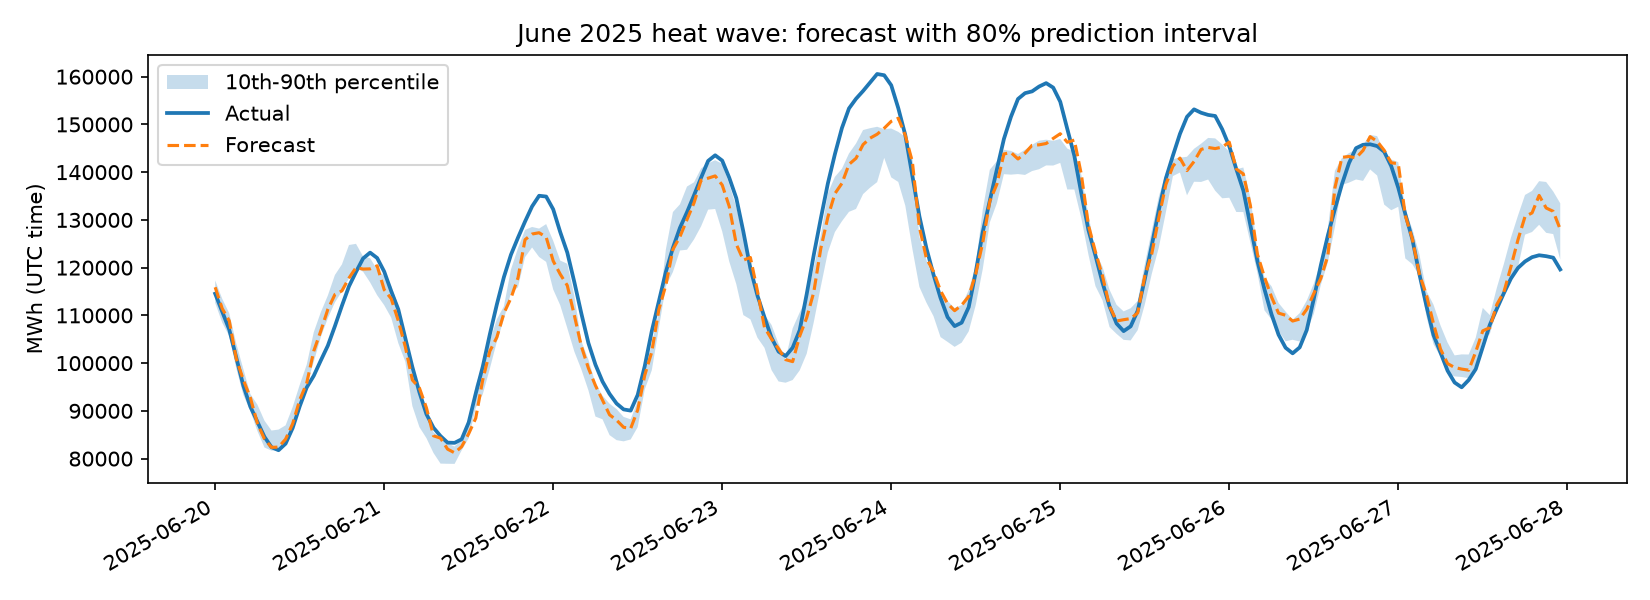
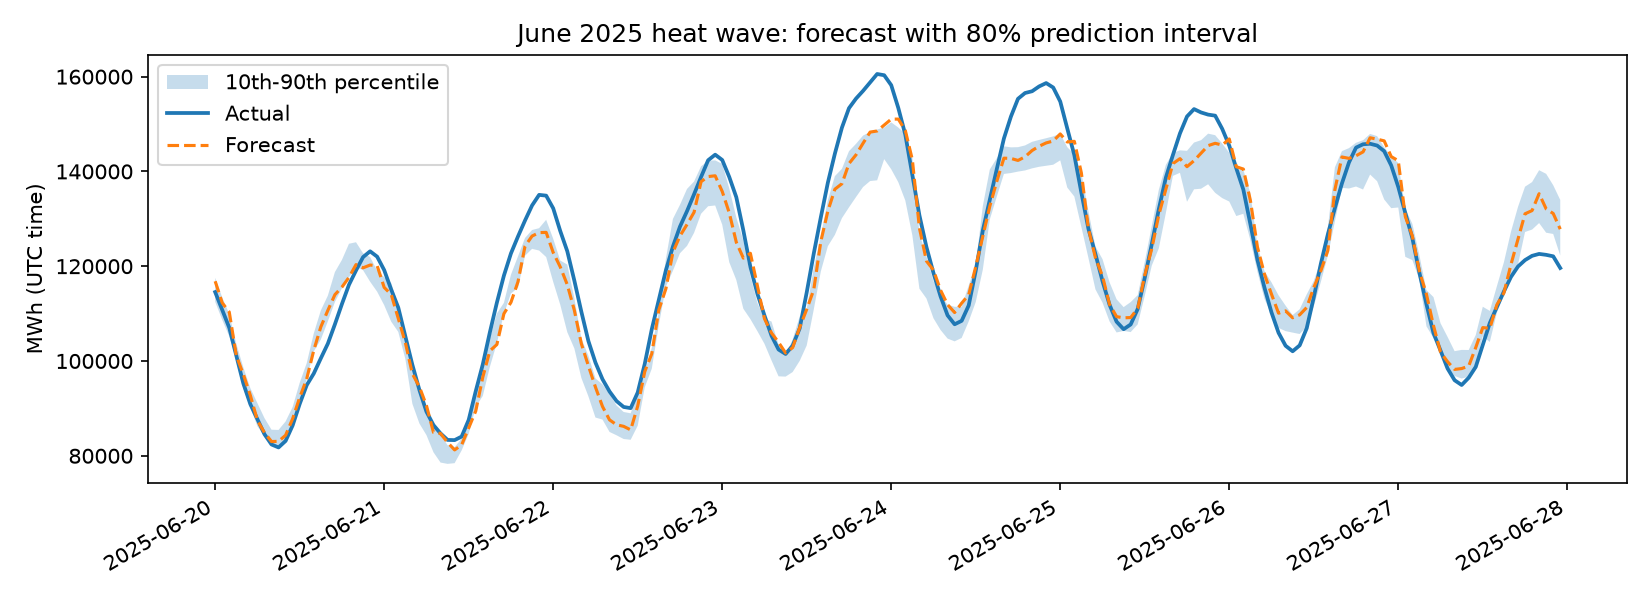
Add holiday features

diff --git a/src/calibrate.py b/src/calibrate.py
@@ -1,0 +1,97 @@
+"""Step 6a: conformal calibration of the 10th-90th percentile band.
+
+For each month, the band is widened by a margin learned from the preceding months' out-of-sample
+errors (those predictions came from models that had not seen those months, so they are honest).
+The first test month has no history, so it is left uncalibrated and excluded from the comparison.
+
+Run from the project root:
+    python -m src.calibrate
+"""
+import matplotlib
+
+matplotlib.use("Agg")
+import matplotlib.pyplot as plt
+import numpy as np
+import pandas as pd
+
+from src.config import DATA_PROCESSED, ROOT
+from src.evaluation_extra import coverage, mean_width
+
+RESULTS = ROOT / "docs" / "results"
+FIGURES = ROOT / "docs" / "figures"
+
+
+def conformal_adjustment(scores, alpha: float = 0.2) -> float:
+    """Margin that makes the band cover (1 - alpha) of past points (finite-sample corrected)."""
+    s = np.sort(np.asarray(scores, dtype=float))
+    n = len(s)
+    k = int(np.ceil((n + 1) * (1 - alpha)))   # the k-th smallest past error
+    return float(s[min(k, n) - 1])
+
+
+def calibrate_intervals(df: pd.DataFrame, n_cal_months: int = 3, alpha: float = 0.2) -> pd.DataFrame:
+    """Add q10_cal, q90_cal and margin columns (NaN for the first month)."""
+    df = df.copy()
+    df["month"] = df["ts"].dt.to_period("M")
+    months = sorted(df["month"].unique())
+    df["q10_cal"], df["q90_cal"], df["margin"] = np.nan, np.nan, np.nan
+    for i, m in enumerate(months):
+        if i == 0:
+            continue
+        prior = months[max(0, i - n_cal_months):i]
+        cal = df[df["month"].isin(prior) & ~df["is_imputed"]]
+        scores = np.maximum(cal["q10"] - cal["demand_mwh"], cal["demand_mwh"] - cal["q90"])
+        margin = conformal_adjustment(scores, alpha)
+        rows = df["month"] == m
+        df.loc[rows, "margin"] = margin
+        df.loc[rows, "q10_cal"] = df.loc[rows, "q10"] - margin
+        df.loc[rows, "q90_cal"] = df.loc[rows, "q90"] + margin
+    return df
+
+
+def main() -> None:
+    df = pd.read_parquet(DATA_PROCESSED / "predictions.parquet").sort_values("ts").reset_index(drop=True)
+    cal = calibrate_intervals(df)
+    ev = cal[cal["q10_cal"].notna() & ~cal["is_imputed"]]
+    y = ev["demand_mwh"]
+
+    summary = pd.DataFrame([
+        {"band": "raw 10th-90th", "coverage_pct": coverage(y, ev["q10"], ev["q90"]),
+         "mean_width_mwh": mean_width(ev["q10"], ev["q90"])},
+        {"band": "calibrated", "coverage_pct": coverage(y, ev["q10_cal"], ev["q90_cal"]),
+         "mean_width_mwh": mean_width(ev["q10_cal"], ev["q90_cal"])},
+    ])
+    print(f"== Interval calibration (target coverage 80%), {ev['month'].nunique()} months ==")
+    print(summary.round(1).to_string(index=False))
+
+    by_month = ev.groupby("month").apply(
+        lambda g: pd.Series({
+            "raw_cov": coverage(g["demand_mwh"], g["q10"], g["q90"]),
+            "cal_cov": coverage(g["demand_mwh"], g["q10_cal"], g["q90_cal"]),
+            "margin_mwh": g["margin"].iloc[0],
+        }), include_groups=False)
+    print("\n== Coverage by month (%) ==")
+    print(by_month.round(1).to_string())
+
+    RESULTS.mkdir(parents=True, exist_ok=True)
+    FIGURES.mkdir(parents=True, exist_ok=True)
+    summary.to_csv(RESULTS / "interval_calibration.csv", index=False)
+    by_month.to_csv(RESULTS / "interval_calibration_by_month.csv")
+    cal.drop(columns="month").to_parquet(DATA_PROCESSED / "predictions_calibrated.parquet", index=False)
+
+    w = cal[(cal["ts"] >= "2025-06-20") & (cal["ts"] < "2025-06-28")]
+    fig, ax = plt.subplots(figsize=(11, 4))
+    ax.fill_between(w["ts"], w["q10_cal"], w["q90_cal"], alpha=0.2, label="Calibrated 80% band")
+    ax.fill_between(w["ts"], w["q10"], w["q90"], alpha=0.35, label="Raw 10th-90th band")
+    ax.plot(w["ts"], w["demand_mwh"], label="Actual", linewidth=1.8)
+    ax.set_title("June 2025 heat wave: raw vs calibrated prediction band")
+    ax.set_ylabel("MWh (UTC time)")
+    ax.legend()
+    fig.autofmt_xdate()
+    fig.tight_layout()
+    fig.savefig(FIGURES / "calibrated_heatwave.png", dpi=150)
+    print(f"\nSaved results and {FIGURES / 'calibrated_heatwave.png'}")
+
+
+if __name__ == "__main__":
+    main()

diff --git a/src/anomaly.py b/src/anomaly.py
@@ -1,0 +1,86 @@
+"""Step 6b: flag hours where actual demand departs sharply from the forecast, and group them into events.
+
+An hour is anomalous if its forecast error is more than Z_THRESHOLD robust standard deviations
+(median/MAD based, so the big errors do not inflate their own yardstick). Imputed hours are skipped.
+
+Run from the project root:
+    python -m src.anomaly
+"""
+import matplotlib
+
+matplotlib.use("Agg")
+import matplotlib.pyplot as plt
+import numpy as np
+import pandas as pd
+
+from src.config import DATA_PROCESSED, ROOT
+
+RESULTS = ROOT / "docs" / "results"
+FIGURES = ROOT / "docs" / "figures"
+Z_THRESHOLD = 4.0
+MAX_GAP_HOURS = 2
+
+
+def robust_z(resid: pd.Series) -> pd.Series:
+    med = resid.median()
+    sigma = 1.4826 * (resid - med).abs().median()
+    return (resid - med) / sigma
+
+
+def find_events(df: pd.DataFrame, max_gap_hours: int = MAX_GAP_HOURS) -> pd.DataFrame:
+    """Group flagged hours (df must have ts, resid, z, flag) into events separated by > max_gap_hours."""
+    f = df[df["flag"]].sort_values("ts")
+    if f.empty:
+        return pd.DataFrame(columns=["start", "end", "hours", "peak_resid_mwh", "peak_z", "direction"])
+    gap = f["ts"].diff() > pd.Timedelta(hours=max_gap_hours)
+    f = f.assign(event=gap.cumsum())
+    rows = []
+    for _, g in f.groupby("event"):
+        peak = g.loc[g["z"].abs().idxmax()]
+        rows.append({
+            "start": g["ts"].min(), "end": g["ts"].max(), "hours": len(g),
+            "peak_resid_mwh": peak["resid"], "peak_z": peak["z"],
+            "direction": "demand above forecast" if peak["resid"] > 0 else "demand below forecast",
+        })
+    return pd.DataFrame(rows)
+
+
+def main() -> None:
+    df = pd.read_parquet(DATA_PROCESSED / "predictions.parquet").sort_values("ts").reset_index(drop=True)
+    df = df[~df["is_imputed"]].copy()
+    df["resid"] = df["demand_mwh"] - df["pred"]
+    df["z"] = robust_z(df["resid"])
+    df["flag"] = df["z"].abs() > Z_THRESHOLD
+
+    events = find_events(df)
+    print(f"{int(df['flag'].sum())} anomalous hours of {len(df):,} ({df['flag'].mean() * 100:.2f}%), "
+          f"grouped into {len(events)} events")
+
+    if len(events):
+        show = events.copy()
+        for c in ("start", "end"):
+            show[c] = show[c].dt.tz_localize("UTC").dt.tz_convert("America/New_York").dt.strftime("%Y-%m-%d %H:%M")
+        top = show.reindex(events["peak_z"].abs().sort_values(ascending=False).index).head(15)
+        print("\n== Top events by size (Eastern time) ==")
+        print(top.round(1).to_string(index=False))
+
+    RESULTS.mkdir(parents=True, exist_ok=True)
+    FIGURES.mkdir(parents=True, exist_ok=True)
+    events.to_csv(RESULTS / "anomaly_events.csv", index=False)
+
+    fig, ax = plt.subplots(figsize=(11, 4))
+    ax.plot(df["ts"], df["resid"], linewidth=0.4, label="Forecast error (actual - forecast)")
+    fl = df[df["flag"]]
+    ax.scatter(fl["ts"], fl["resid"], s=8, color="red", label=f"Flagged (|z| > {Z_THRESHOLD:g})", zorder=3)
+    ax.axhline(0, color="gray", linewidth=0.6)
+    ax.set_title("Forecast error and flagged anomalous hours, 2025")
+    ax.set_ylabel("MWh")
+    ax.legend()
+    fig.autofmt_xdate()
+    fig.tight_layout()
+    fig.savefig(FIGURES / "anomalies.png", dpi=150)
+    print(f"\nSaved results and {FIGURES / 'anomalies.png'}")
+
+
+if __name__ == "__main__":
+    main()

diff --git a/src/calendar_features.py b/src/calendar_features.py
@@ -1,0 +1,43 @@
+"""US holiday calendar features.
+
+Holidays are matched on their actual calendar date (not the "observed" weekday), because demand
+follows the real day. is_holiday_adjacent marks the day before or after a holiday, which covers
+Christmas Eve, the day after Christmas, the Friday after Thanksgiving, and so on.
+"""
+import datetime as dt
+
+import pandas as pd
+
+
+def nth_weekday(year: int, month: int, weekday: int, n: int) -> dt.date:
+    """n-th given weekday of a month (Monday=0). n=-1 means the last one."""
+    if n > 0:
+        first = dt.date(year, month, 1)
+        day = 1 + (weekday - first.weekday()) % 7 + 7 * (n - 1)
+        return dt.date(year, month, day)
+    last = (pd.Timestamp(year, month, 1) + pd.offsets.MonthEnd(0)).date()
+    return last - dt.timedelta(days=(last.weekday() - weekday) % 7)
+
+
+def holiday_dates(years) -> set:
+    out = set()
+    for y in years:
+        out |= {
+            dt.date(y, 1, 1), dt.date(y, 7, 4), dt.date(y, 12, 25),
+            nth_weekday(y, 1, 0, 3),    # Martin Luther King Jr. Day
+            nth_weekday(y, 2, 0, 3),    # Presidents Day
+            nth_weekday(y, 5, 0, -1),   # Memorial Day
+            nth_weekday(y, 9, 0, 1),    # Labor Day
+            nth_weekday(y, 11, 3, 4),   # Thanksgiving
+        }
+    return out
+
+
+def holiday_table(start, end) -> pd.DataFrame:
+    """One row per calendar date: date, is_holiday, is_holiday_adjacent."""
+    days = pd.date_range(pd.Timestamp(start).normalize(), pd.Timestamp(end).normalize(), freq="D")
+    hols = holiday_dates(range(days.min().year - 1, days.max().year + 2))
+    is_hol = pd.Series([d.date() in hols for d in days], index=days)
+    adjacent = (is_hol.shift(1, fill_value=False) | is_hol.shift(-1, fill_value=False)) & ~is_hol
+    return pd.DataFrame({"date": days, "is_holiday": is_hol.to_numpy(),
+                         "is_holiday_adjacent": adjacent.to_numpy()})

diff --git a/tests/test_calibrate_anomaly.py b/tests/test_calibrate_anomaly.py
@@ -1,0 +1,40 @@
+import numpy as np
+import pandas as pd
+
+from src.anomaly import find_events, robust_z
+from src.calibrate import calibrate_intervals, conformal_adjustment
+from src.evaluation_extra import coverage
+
+
+def test_conformal_adjustment_known_value():
+    assert conformal_adjustment(list(range(1, 100)), alpha=0.2) == 80
+
+
+def test_calibration_widens_a_too_narrow_band():
+    rng = np.random.default_rng(1)
+    ts = pd.date_range("2025-01-01", periods=24 * 30 * 6, freq="h")
+    df = pd.DataFrame({"ts": ts, "demand_mwh": rng.normal(size=len(ts)),
+                       "is_imputed": False, "q10": -0.3, "q90": 0.3})
+    cal = calibrate_intervals(df)
+    ev = cal[cal["q10_cal"].notna()]
+    raw = coverage(ev["demand_mwh"], ev["q10"], ev["q90"])
+    fixed = coverage(ev["demand_mwh"], ev["q10_cal"], ev["q90_cal"])
+    assert raw < 40 and 74 < fixed < 86
+    assert cal["q10_cal"].iloc[:24].isna().all()  # first month stays uncalibrated
+
+
+def test_find_events_groups_consecutive_hours():
+    ts = pd.date_range("2025-01-01", periods=30, freq="h")
+    resid = np.zeros(30)
+    resid[[3, 4, 5, 20]] = [10, 12, -8, -15]
+    df = pd.DataFrame({"ts": ts, "resid": resid})
+    df["z"] = resid
+    df["flag"] = np.abs(resid) > 5
+    ev = find_events(df)
+    assert list(ev["hours"]) == [3, 1]
+    assert ev["direction"].iloc[1] == "demand below forecast"
+
+
+def test_robust_z_ignores_outliers_in_scale():
+    r = pd.Series([0.0, 1, -1, 1, -1, 0, 1, -1, 1000])
+    assert abs(robust_z(r).iloc[-1]) > 100

diff --git a/tests/test_calendar.py b/tests/test_calendar.py
@@ -1,0 +1,27 @@
+import datetime as dt
+
+import pandas as pd
+
+from src.calendar_features import holiday_dates, holiday_table, nth_weekday
+
+
+def test_floating_holidays_2025():
+    assert nth_weekday(2025, 5, 0, -1) == dt.date(2025, 5, 26)   # Memorial Day
+    assert nth_weekday(2025, 9, 0, 1) == dt.date(2025, 9, 1)     # Labor Day
+    assert nth_weekday(2024, 11, 3, 4) == dt.date(2024, 11, 28)  # Thanksgiving
+    assert nth_weekday(2024, 1, 0, 3) == dt.date(2024, 1, 15)    # MLK Day
+
+
+def test_fixed_holidays_use_actual_date_not_observed():
+    h = holiday_dates([2023])
+    assert dt.date(2023, 1, 1) in h          # a Sunday; observed Monday is not used
+    assert dt.date(2023, 1, 2) not in h
+
+
+def test_holiday_table_flags_and_adjacent():
+    t = holiday_table("2024-11-20", "2024-12-31").set_index("date")
+    assert t.loc["2024-11-28", "is_holiday"] and not t.loc["2024-11-28", "is_holiday_adjacent"]
+    assert t.loc["2024-11-29", "is_holiday_adjacent"]            # Friday after Thanksgiving
+    assert t.loc["2024-12-24", "is_holiday_adjacent"] and t.loc["2024-12-26", "is_holiday_adjacent"]
+    assert not t.loc["2024-12-10", ["is_holiday", "is_holiday_adjacent"]].any()
+    assert len(t) == (pd.Timestamp("2024-12-31") - pd.Timestamp("2024-11-20")).days + 1

diff --git a/src/build_features.py b/src/build_features.py
@@ -6,6 +6,7 @@ Run from the project root:
 import duckdb
 import pandas as pd
 
+from src.calendar_features import holiday_table
 from src.config import DATA_PROCESSED, DATA_RAW, DB_PATH, ROOT
 
 SQL_DIR = ROOT / "sql"
@@ -25,7 +26,9 @@ def load_raw_tables(con: duckdb.DuckDBPyConnection, demand: pd.DataFrame, weathe
         grid["ts"].dt.tz_localize("UTC").dt.tz_convert(LOCAL_TZ).dt.tz_localize(None)
     )
 
-    for name, df in [("raw_demand", demand), ("raw_weather", weather), ("time_dim", grid)]:
+    hol = holiday_table(grid["ts_local"].min(), grid["ts_local"].max())
+
+    for name, df in [("raw_demand", demand), ("raw_weather", weather), ("time_dim", grid), ("holidays", hol)]:
         con.register("tmp_df", df)
         con.execute(f"CREATE OR REPLACE TABLE {name} AS SELECT * FROM tmp_df")
         con.unregister("tmp_df")

diff --git a/tests/test_features.py b/tests/test_features.py
@@ -51,3 +51,14 @@ def test_features_table():
     assert np.allclose(f["temp_c"], 15.0)      # average of the two cities
     assert np.allclose(f["cdd"], 0.0)           # 15C is below the 18.3C base
     assert np.allclose(f["hdd"], 3.3)
+
+
+def test_holiday_features_are_joined():
+    import datetime as dt
+    con, _ = _build()
+    f = con.execute("SELECT * FROM features_hourly").df()
+    assert {"is_holiday", "is_holiday_adjacent"} <= set(f.columns)
+    mlk = f[f["ts_local"].dt.date == dt.date(2024, 1, 15)]       # Martin Luther King Jr. Day
+    assert len(mlk) > 0 and mlk["is_holiday"].all()
+    eve = f[f["ts_local"].dt.date == dt.date(2024, 1, 14)]
+    assert eve["is_holiday_adjacent"].all() and not eve["is_holiday"].any()

diff --git a/src/model.py b/src/model.py
@@ -24,7 +24,7 @@ RESULTS = ROOT / "docs" / "results"
 FIGURES = ROOT / "docs" / "figures"
 
 FEATURES = [
-    "hour_local", "dow", "month_num", "is_weekend",
+    "hour_local", "dow", "month_num", "is_weekend", "is_holiday", "is_holiday_adjacent",
     "temp_c", "temp_c_max_city", "temp_c_min_city", "humidity_pct", "wind_kmh",
     "cdd", "hdd", "lag_24", "lag_48", "lag_168", "roll24_mean",
 ]
@@ -34,7 +34,8 @@ PARAMS = dict(max_iter=300, learning_rate=0.08, max_leaf_nodes=31, min_samples_l
 
 def make_X(df: pd.DataFrame) -> pd.DataFrame:
     X = df[FEATURES].copy()
-    X["is_weekend"] = X["is_weekend"].astype(int)
+    for c in ("is_weekend", "is_holiday", "is_holiday_adjacent"):
+        X[c] = X[c].astype(int)
     return X
 
 

diff --git a/tests/test_model.py b/tests/test_model.py
@@ -14,7 +14,8 @@ def test_interval_metrics():
 def _synthetic(n=900):
     rng = np.random.default_rng(0)
     d = pd.DataFrame({c: rng.normal(size=n) for c in FEATURES})
-    d["is_weekend"] = rng.integers(0, 2, n).astype(bool)
+    for c in ("is_weekend", "is_holiday", "is_holiday_adjacent"):
+        d[c] = rng.integers(0, 2, n).astype(bool)
     d["demand_mwh"] = 100 + 10 * d["temp_c"] + rng.normal(scale=1.0, size=n)
     d["is_imputed"] = False
     return d
